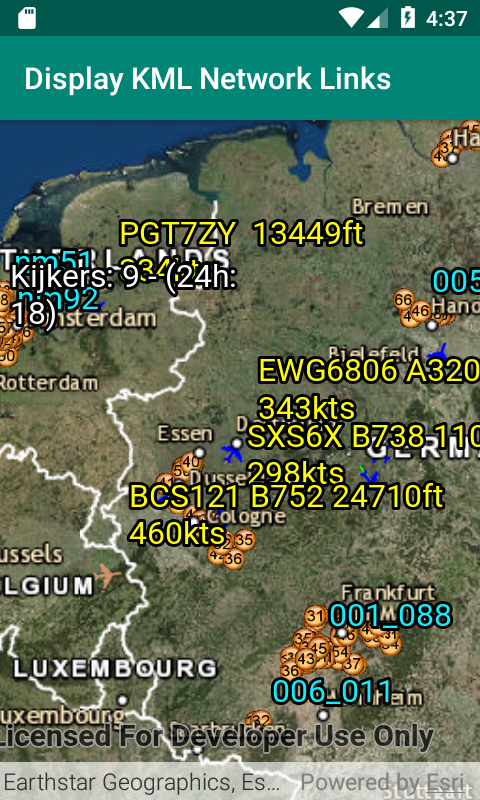
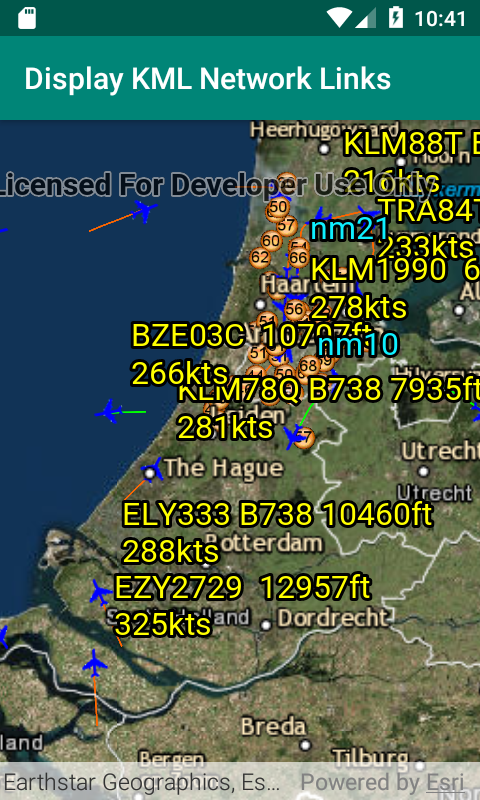
update readme and png

diff --git a/java/display-kml-network-links/README.md b/java/display-kml-network-links/README.md
@@ -1,10 +1,9 @@
 <h1>Display KML Network Links</h1>
 
-<p>Display KML with a network link and show network messages.</p>
+<p>KML files can reference other KML files on the network as well as refresh intervals. This can be used to create a map that will periodically refresh itself with the latest data. This sample demonstrates how to display a file with a network link.
+</p>
 
 <p><img src="Displaykmlnetworklinks.png"/></p>
-
-<p><img src="Displaykmlnetworklinks2.png"/></p>
 
 <h2>How to use the sample</h2>
 
